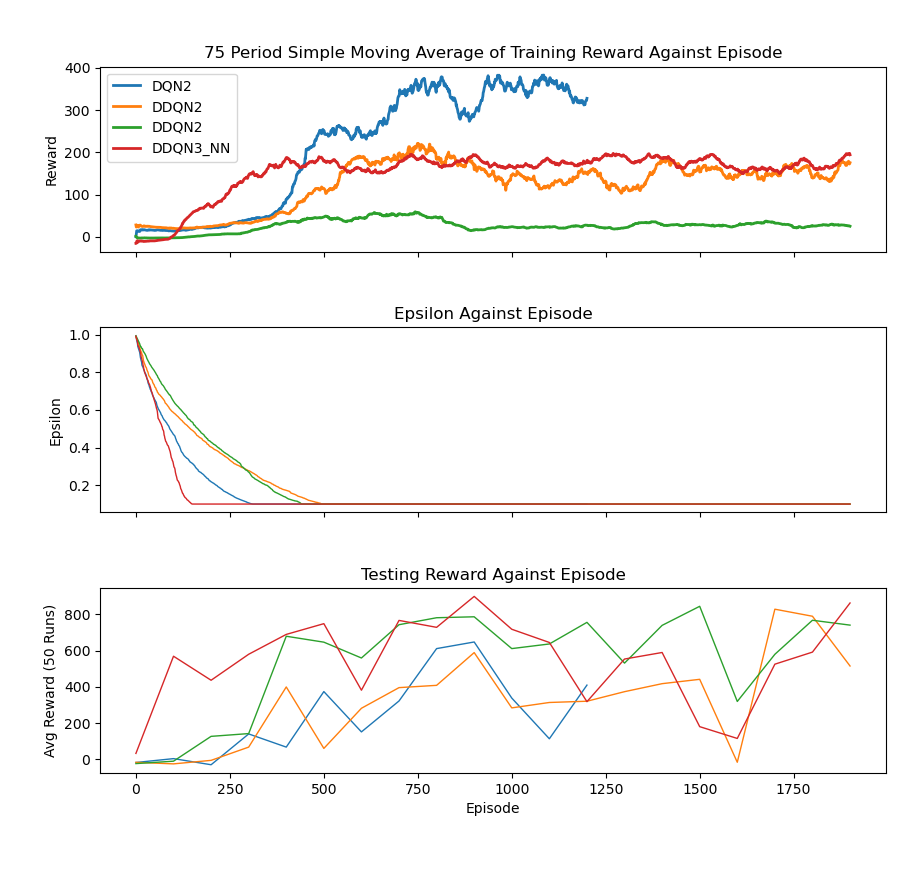
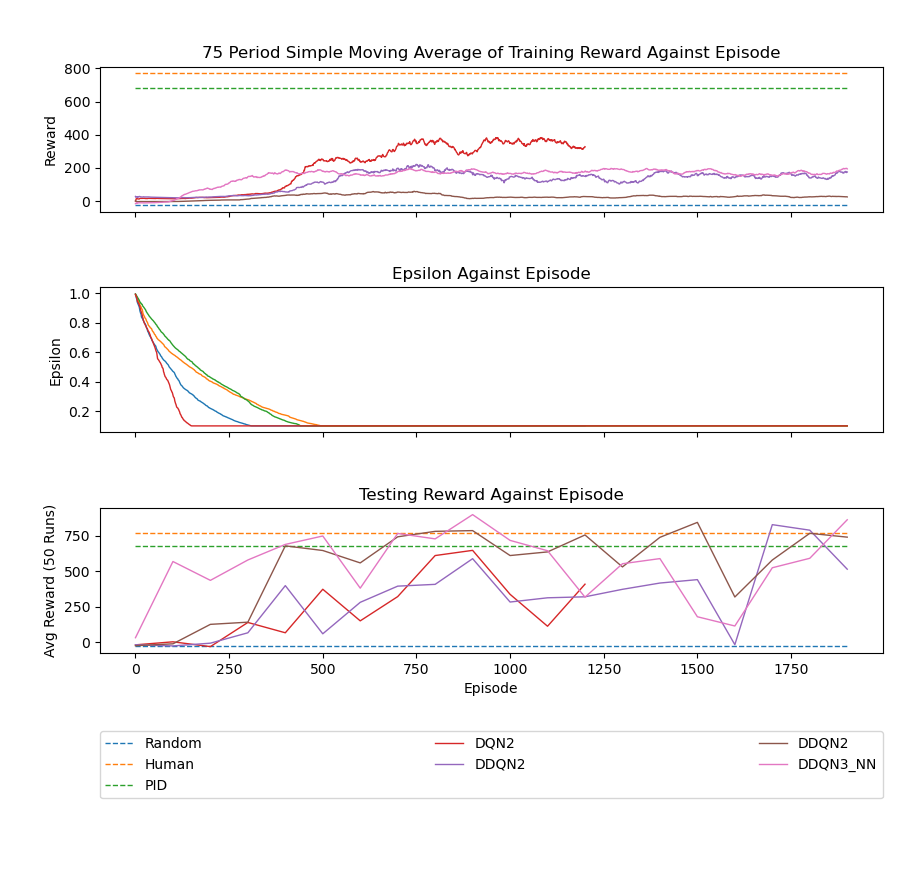
Updates to graphing and fixed bug relating to random action support in DDQN3

diff --git a/plot_results.py b/plot_results.py
@@ -21,7 +21,18 @@ def plotResults( filepaths ):
     # Create two subplots sharing y axis
     fig, (ax1, ax2, ax3) = plt.subplots(3, sharex=True)
 
+    # plot random agent, human and PID on ax1 and ax3
+    x = [0, 1900]
+    dataDict = {    "Random" : [-24.28] * len(x),
+                    "Human" : [770.75] * len(x),
+                    "PID" : [680.98] * len(x) }
+
     labels = []
+    for key, val in dataDict.items():
+        ax1.plot( x, val, '--', linewidth=1 )
+        ax3.plot( x, val, '--', linewidth=1 )
+        labels.append( key )
+
     for tpath, mpath in filepaths:
         # create a meaningful legend
         labels.append( tpath.split("/")[2] )
@@ -34,7 +45,7 @@ def plotResults( filepaths ):
         sma_reward, ticks = simple_moving_avg( reward )
 
         # ax1.plot(episodes, reward, 'k-', linewidth=1)
-        ax1.plot(episodes, sma_reward, '-', linewidth=2)
+        ax1.plot(episodes, sma_reward, '-', linewidth=1)
         ax1.set(title=f'{ticks} Period Simple Moving Average of Training Reward Against Episode', ylabel='Reward')
 
         ax2.plot(episodes, epsilon, '-', linewidth=1)
@@ -45,8 +56,8 @@ def plotResults( filepaths ):
         ax3.plot(data3["Episode"], data3["Avg Reward"], '-', linewidth=1)
         ax3.set(title=f'Testing Reward Against Episode', xlabel='Episode', ylabel='Avg Reward (50 Runs)')
     
+    ax3.legend( labels, bbox_to_anchor=(0,-1,1,1), loc="lower left", mode="expand", borderaxespad=0, ncol=3)
     fig.tight_layout()  # add padding between figs
-    ax1.legend( labels )
     plt.show()
 
 
@@ -57,7 +68,8 @@ if __name__ == '__main__':
                             # "rewards/oah33/DDQN1/20220422-190009/episode_300.csv",
                             "rewards/oah33/DDQN2/20220423-122311/episode_1900.csv",
                             "rewards/oah33/DDQN2/20220423-170444/episode_1900.csv",
-                            "rewards/oah33/DDQN3_NN/20220424-140943/episode_1900.csv"
+                            "rewards/oah33/DDQN3_NN/20220424-140943/episode_1900.csv",
+                            "rewards/oah33/DDQN3_NN_BigBuffer/20220427-115058/episode_300.csv"
                         ]
 
     model_rewards = [   "episode_test_runs/oah33/20220425-202418/DQN2/episode_run_rewards.csv",
@@ -65,6 +77,7 @@ if __name__ == '__main__':
                         "episode_test_runs/oah33/20220425-202418/DDQN2_T1/episode_run_rewards.csv",
                         "episode_test_runs/oah33/20220425-202418/DDQN2_T2/episode_run_rewards.csv",
                         "episode_test_runs/oah33/20220425-202418/DDQN3_NN/episode_run_rewards.csv",
+                        "episode_test_runs/oah33/20220425-202418/DDQN3_NN/episode_run_rewards.csv"
                     ]
     filepaths = [ [training_rewards[i], model_rewards[i]] for i in range(len(training_rewards)) ]
     plotResults( filepaths = filepaths )

diff --git a/DDQN3.py b/DDQN3.py
@@ -4,7 +4,7 @@
 #   --> NN input is greyscale 96x96x1
 
 # Environment imports
-import random as rand
+import random
 import numpy as np
 import gym
 import pyvirtualdisplay
@@ -48,7 +48,7 @@ MODEL_DIR               = f"./model/{USERNAME}/{MODEL_TYPE}/{TIMESTAMP}/"
 REWARD_DIR              = f"rewards/{USERNAME}/{MODEL_TYPE}/{TIMESTAMP}/"
 
 # Training params
-RENDER                  = False
+RENDER                  = True
 PLOT_RESULTS            = False     # plotting reward and epsilon vs epsiode (graphically) NOTE: THIS WILL PAUSE TRAINING AT PLOT EPISODE!
 EPISODES                = 2000      # training episodes
 SAVE_TRAINING_FREQUENCY = 100       # save model every n episodes
@@ -61,7 +61,7 @@ STEPS_ON_GRASS          = 20        # How many steps can car be on grass for (st
 REPLAY_BUFFER_MAX_SIZE  = 150000    # threshold memory limit for replay buffer (old version was 10000)
 
 # Testing params
-PRETRAINED_PATH         = "model/oah33/DDQN3_NN/20220424-140943/episode_900.h5"
+PRETRAINED_PATH         = "model/oah33/DDQN3_NN_BigBuffer/20220427-115058/episode_300.h5"
 TEST                    = True      # true = testing, false = training
 
 
@@ -115,7 +115,7 @@ class DDQN_Agent:
         self.D.append( (state, action, reward, new_state, done) )
 
 
-    def choose_action( self, state, best=False, random=False):
+    def choose_action( self, state, best=False, _random=False):
         """Take state input and use latest target model to make prediction on best next action; choose it!"""
         state = np.expand_dims(state, axis=0)
         actionIDX = np.argmax( self.model.predict(state)[0] )
@@ -124,7 +124,7 @@ class DDQN_Agent:
         if best: return self.action_space[ actionIDX ]
 
         # return random action
-        if random: return rand.choice(self.action_space)
+        if _random: return random.choice(self.action_space)
 
         # epsilon chance to choose random action
         if stats.bernoulli( self.epsilon ).rvs():
